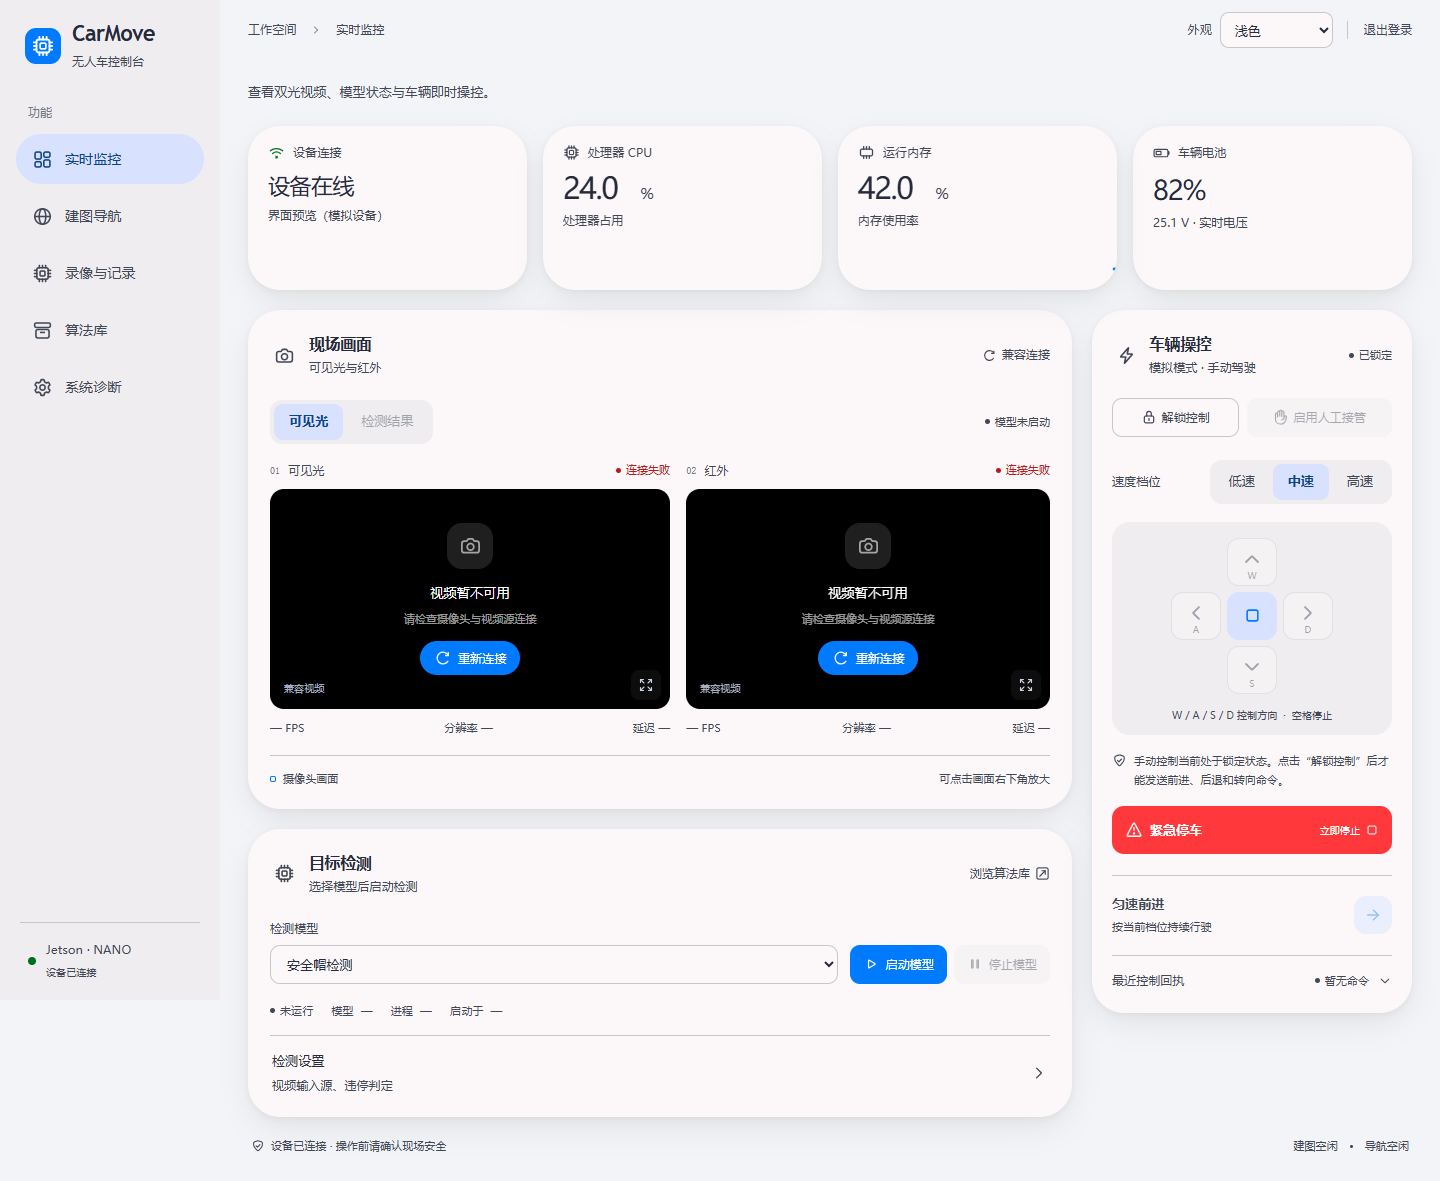
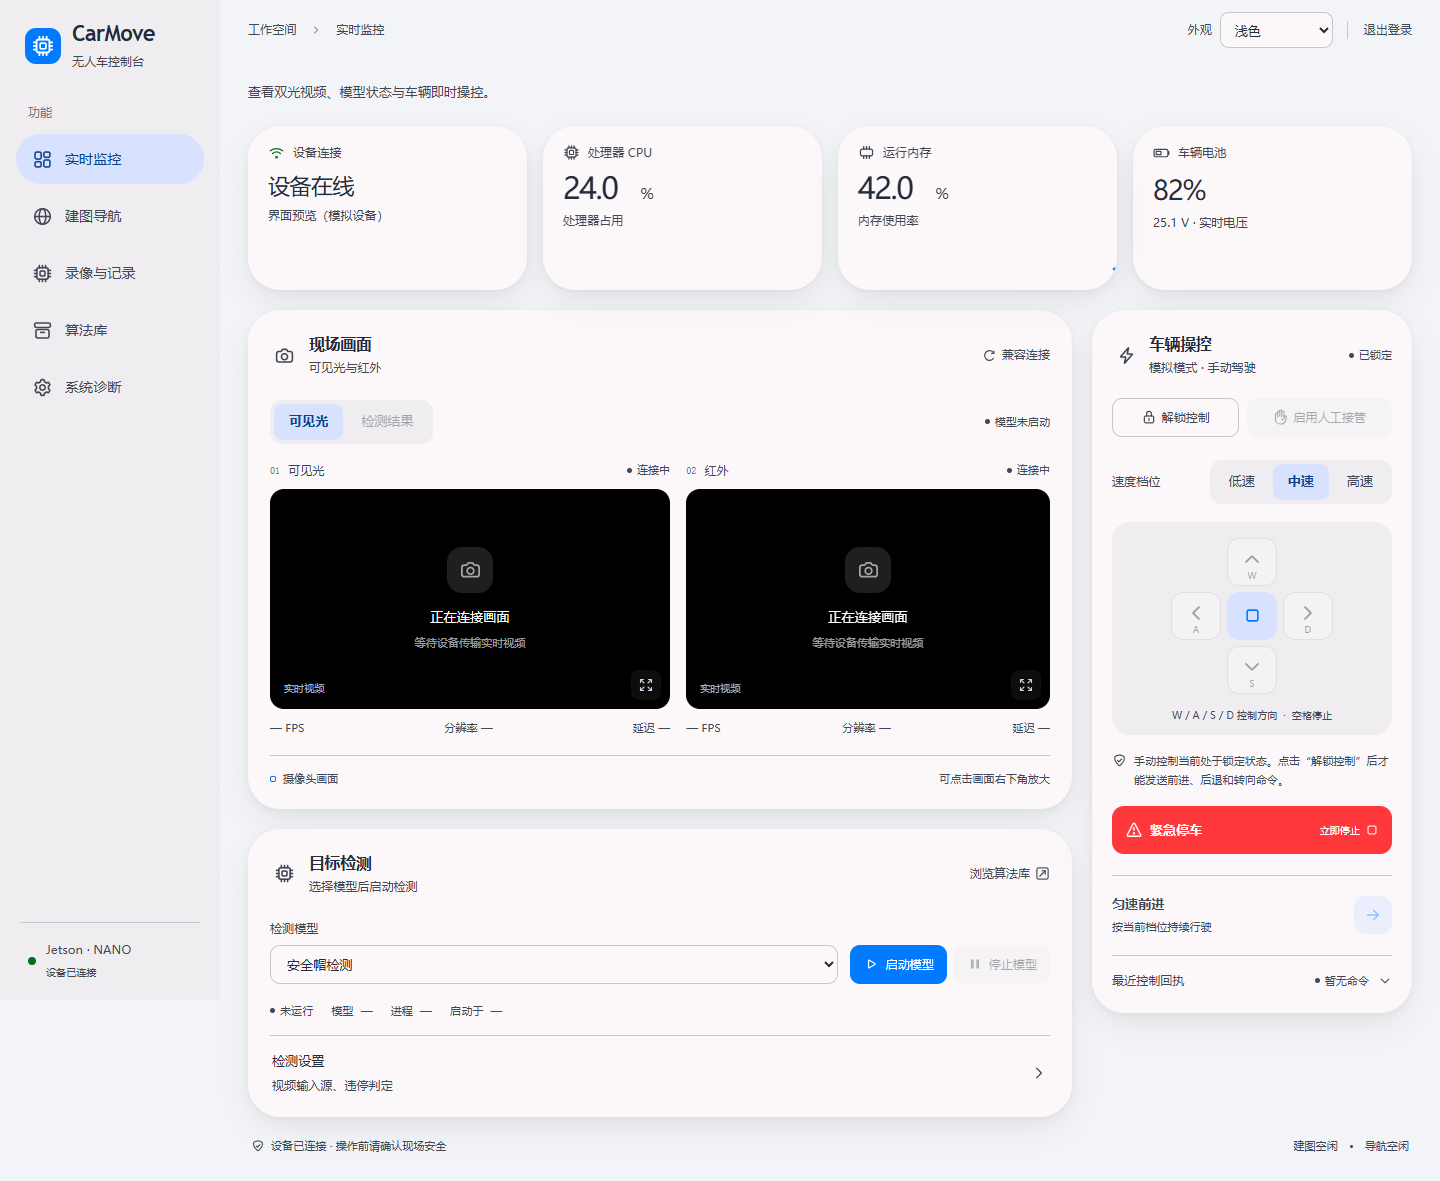
docs: refresh desktop and mobile interface previews

diff --git a/docs/superpowers/plans/2026-11-20-mobile-interface.md b/docs/superpowers/plans/2026-11-20-mobile-interface.md
@@ -12,8 +12,8 @@
 - [x] 提取 `src/components/ThemeSelector.tsx`，桌面与手机共用；手机登录、已登录页添加入口。手机 VideoStream 设置 `presentation="console"`，底部状态文案对应失败状态。
 - [x] 新增 `src/mobile.css` 并在 main.tsx 最后加载：使用现有 tokens，统一卡片、字体、表单、状态、登录与底部导航；保留原有数据和操作绑定。
 - [x] 运行 `npm run build` 和完整 Playwright 回归，修复由本次变动引起的问题。用本地 Edge 浏览器配置运行，不新增运行时依赖。
-- [ ] 扩展 `scripts/capture-screenshots.mjs` 覆盖手机采集、监控、记录、登录与深色，人工检查图片。更新前端说明与 README 引用。
-- [ ] 提交前端代码后重建截图，检查来源和引用，再提交展示图；推送并核实远端提交。
+- [x] 扩展 `scripts/capture-screenshots.mjs` 覆盖手机采集、监控、记录、登录与深色，人工检查图片。更新前端说明与 README 引用。
+- [x] 提交前端代码后重建截图，检查来源和引用，再提交展示图；推送并核实远端提交。
 
 ## 验收命令
 

diff --git a/docs/README.md b/docs/README.md
@@ -7,6 +7,7 @@
 - 04-device-operations.md：去除密码后的设备调试与常用命令。
 - 08-data-pipeline.md：采集、4K 母片、场景分组、YOLO 标注和数据集校验。
 - 09-yolo-training.md：YOLOv5 基线训练、Jetson 推理验收和实验记录模板。
+- 19-mobile-interface.md：手机端与电脑端视觉统一、主题、响应式布局及本地验证范围。
 - `bash tools/run_unit_tests.sh`：运行云台协议、事件规则和数据工具的无硬件测试。
 - reference/智能网联汽车整车技术科创系统(1).docx：项目原始技术说明书。
 
